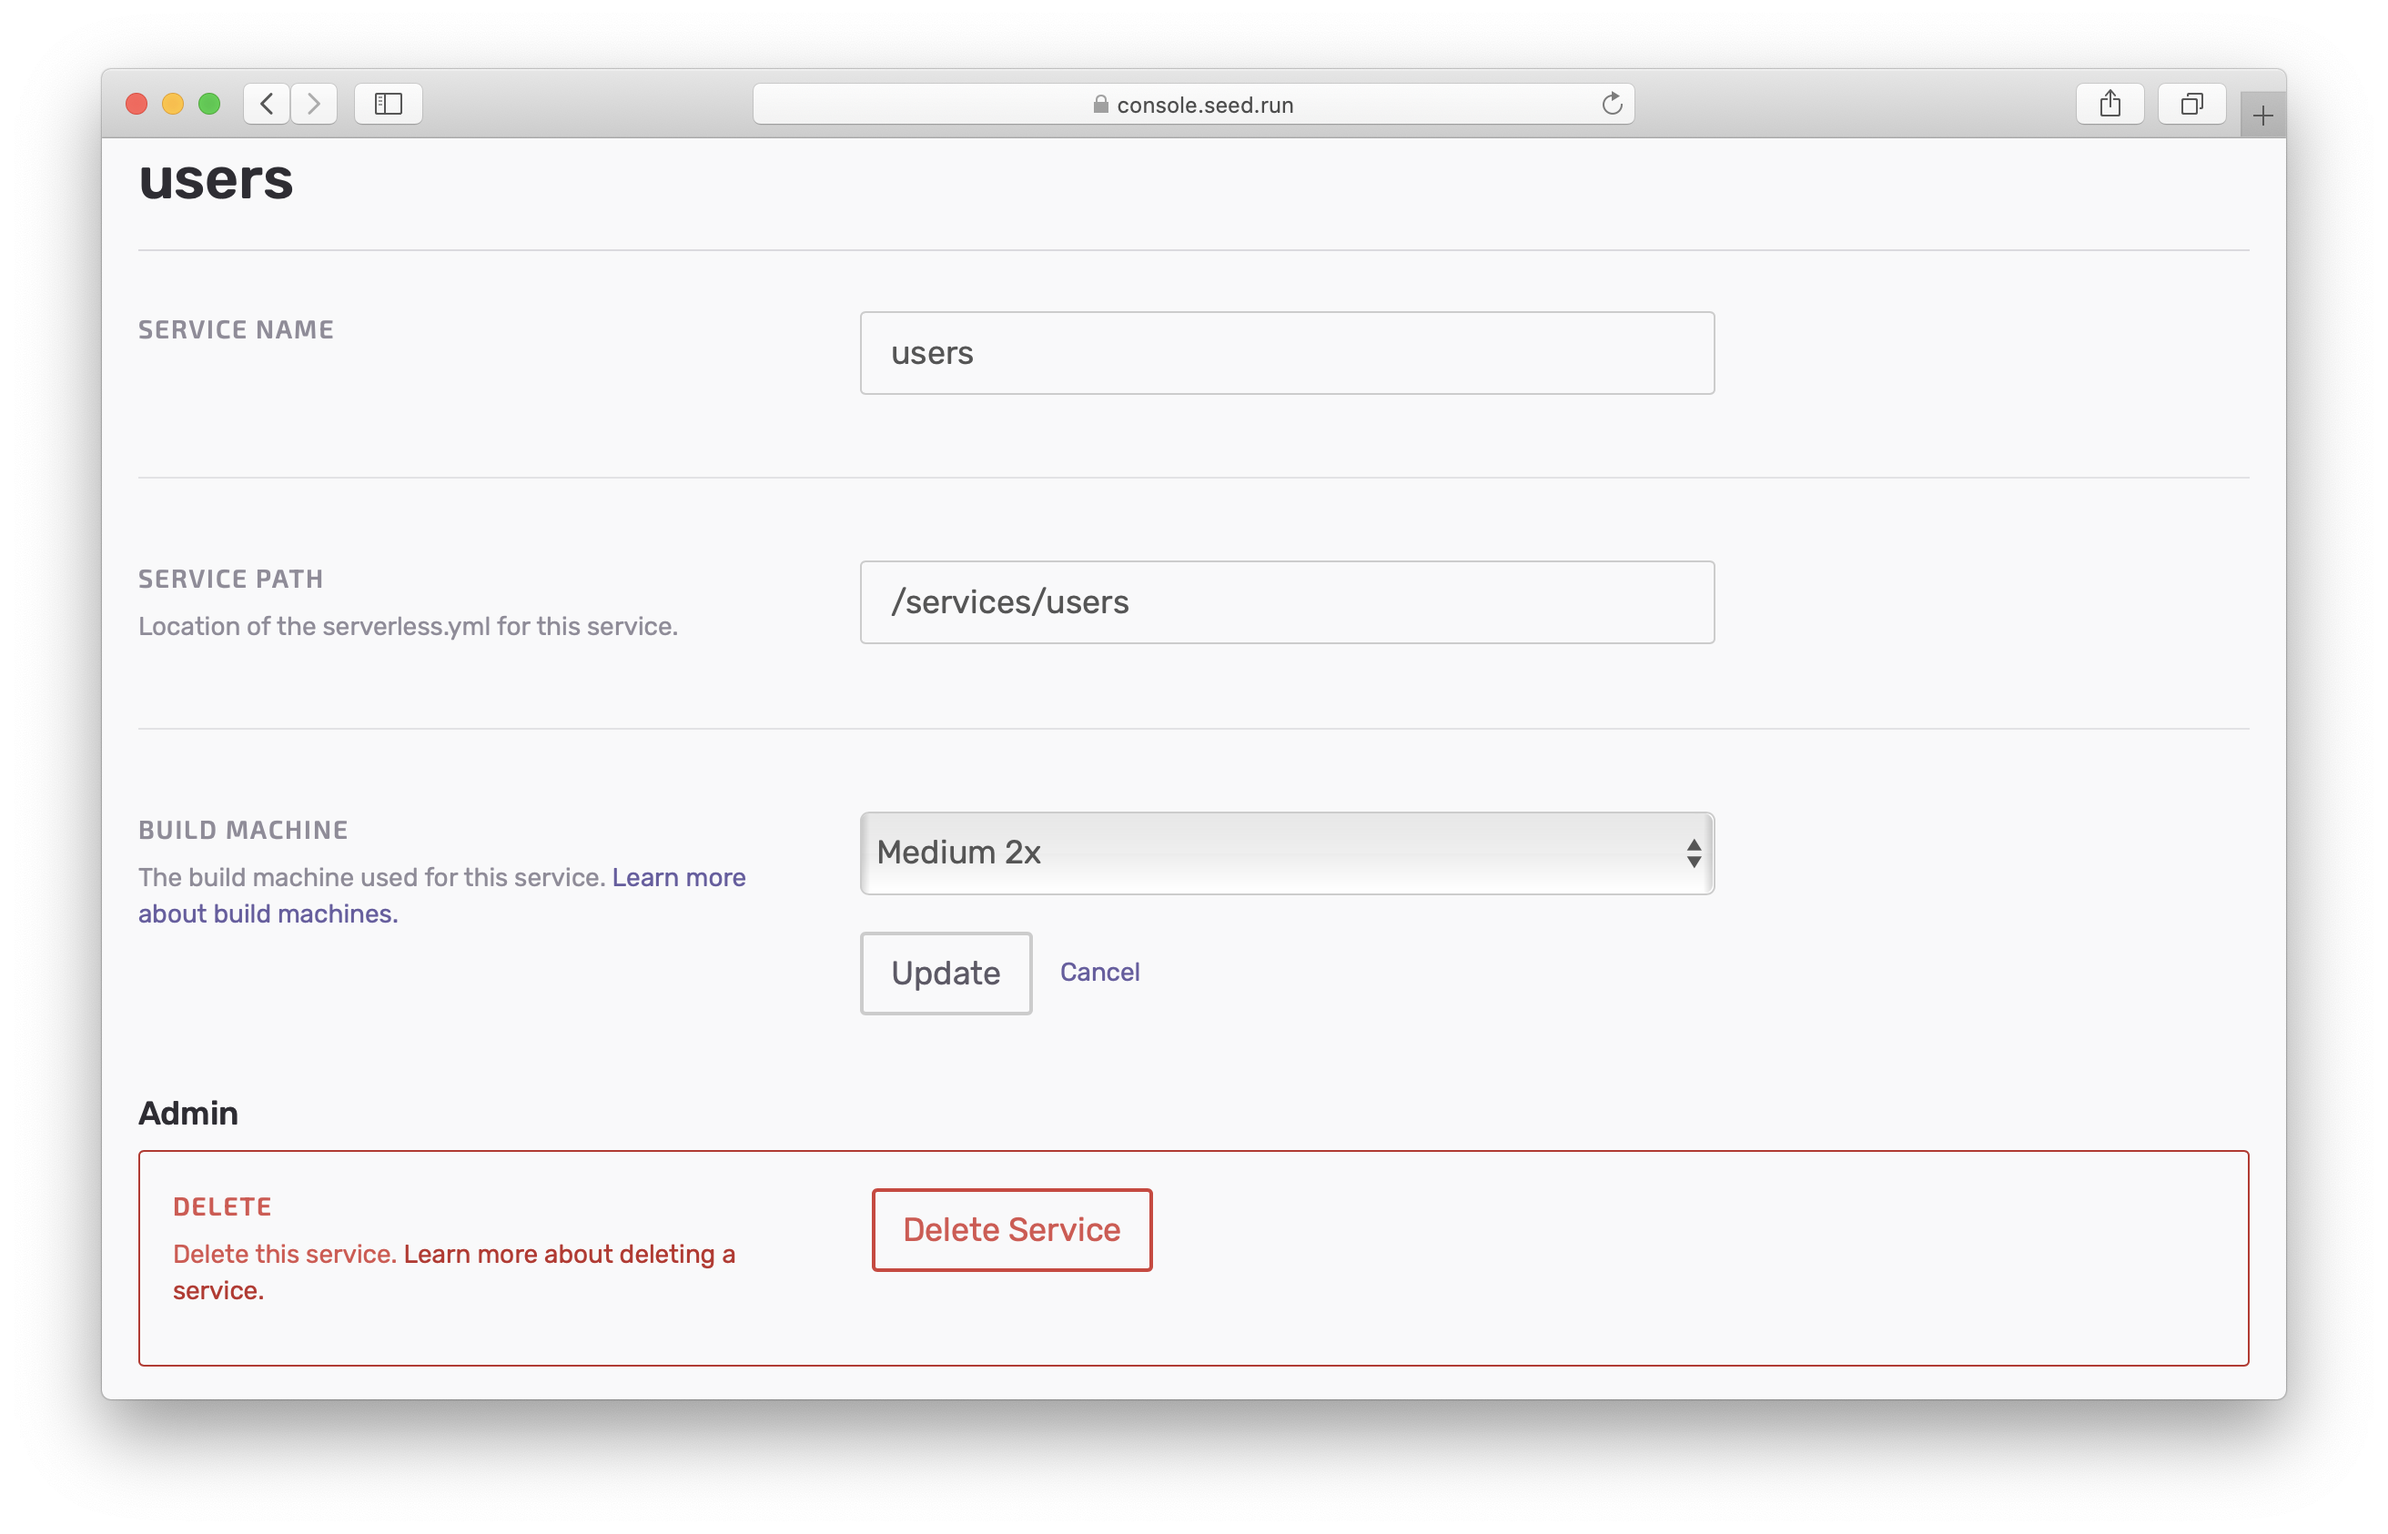
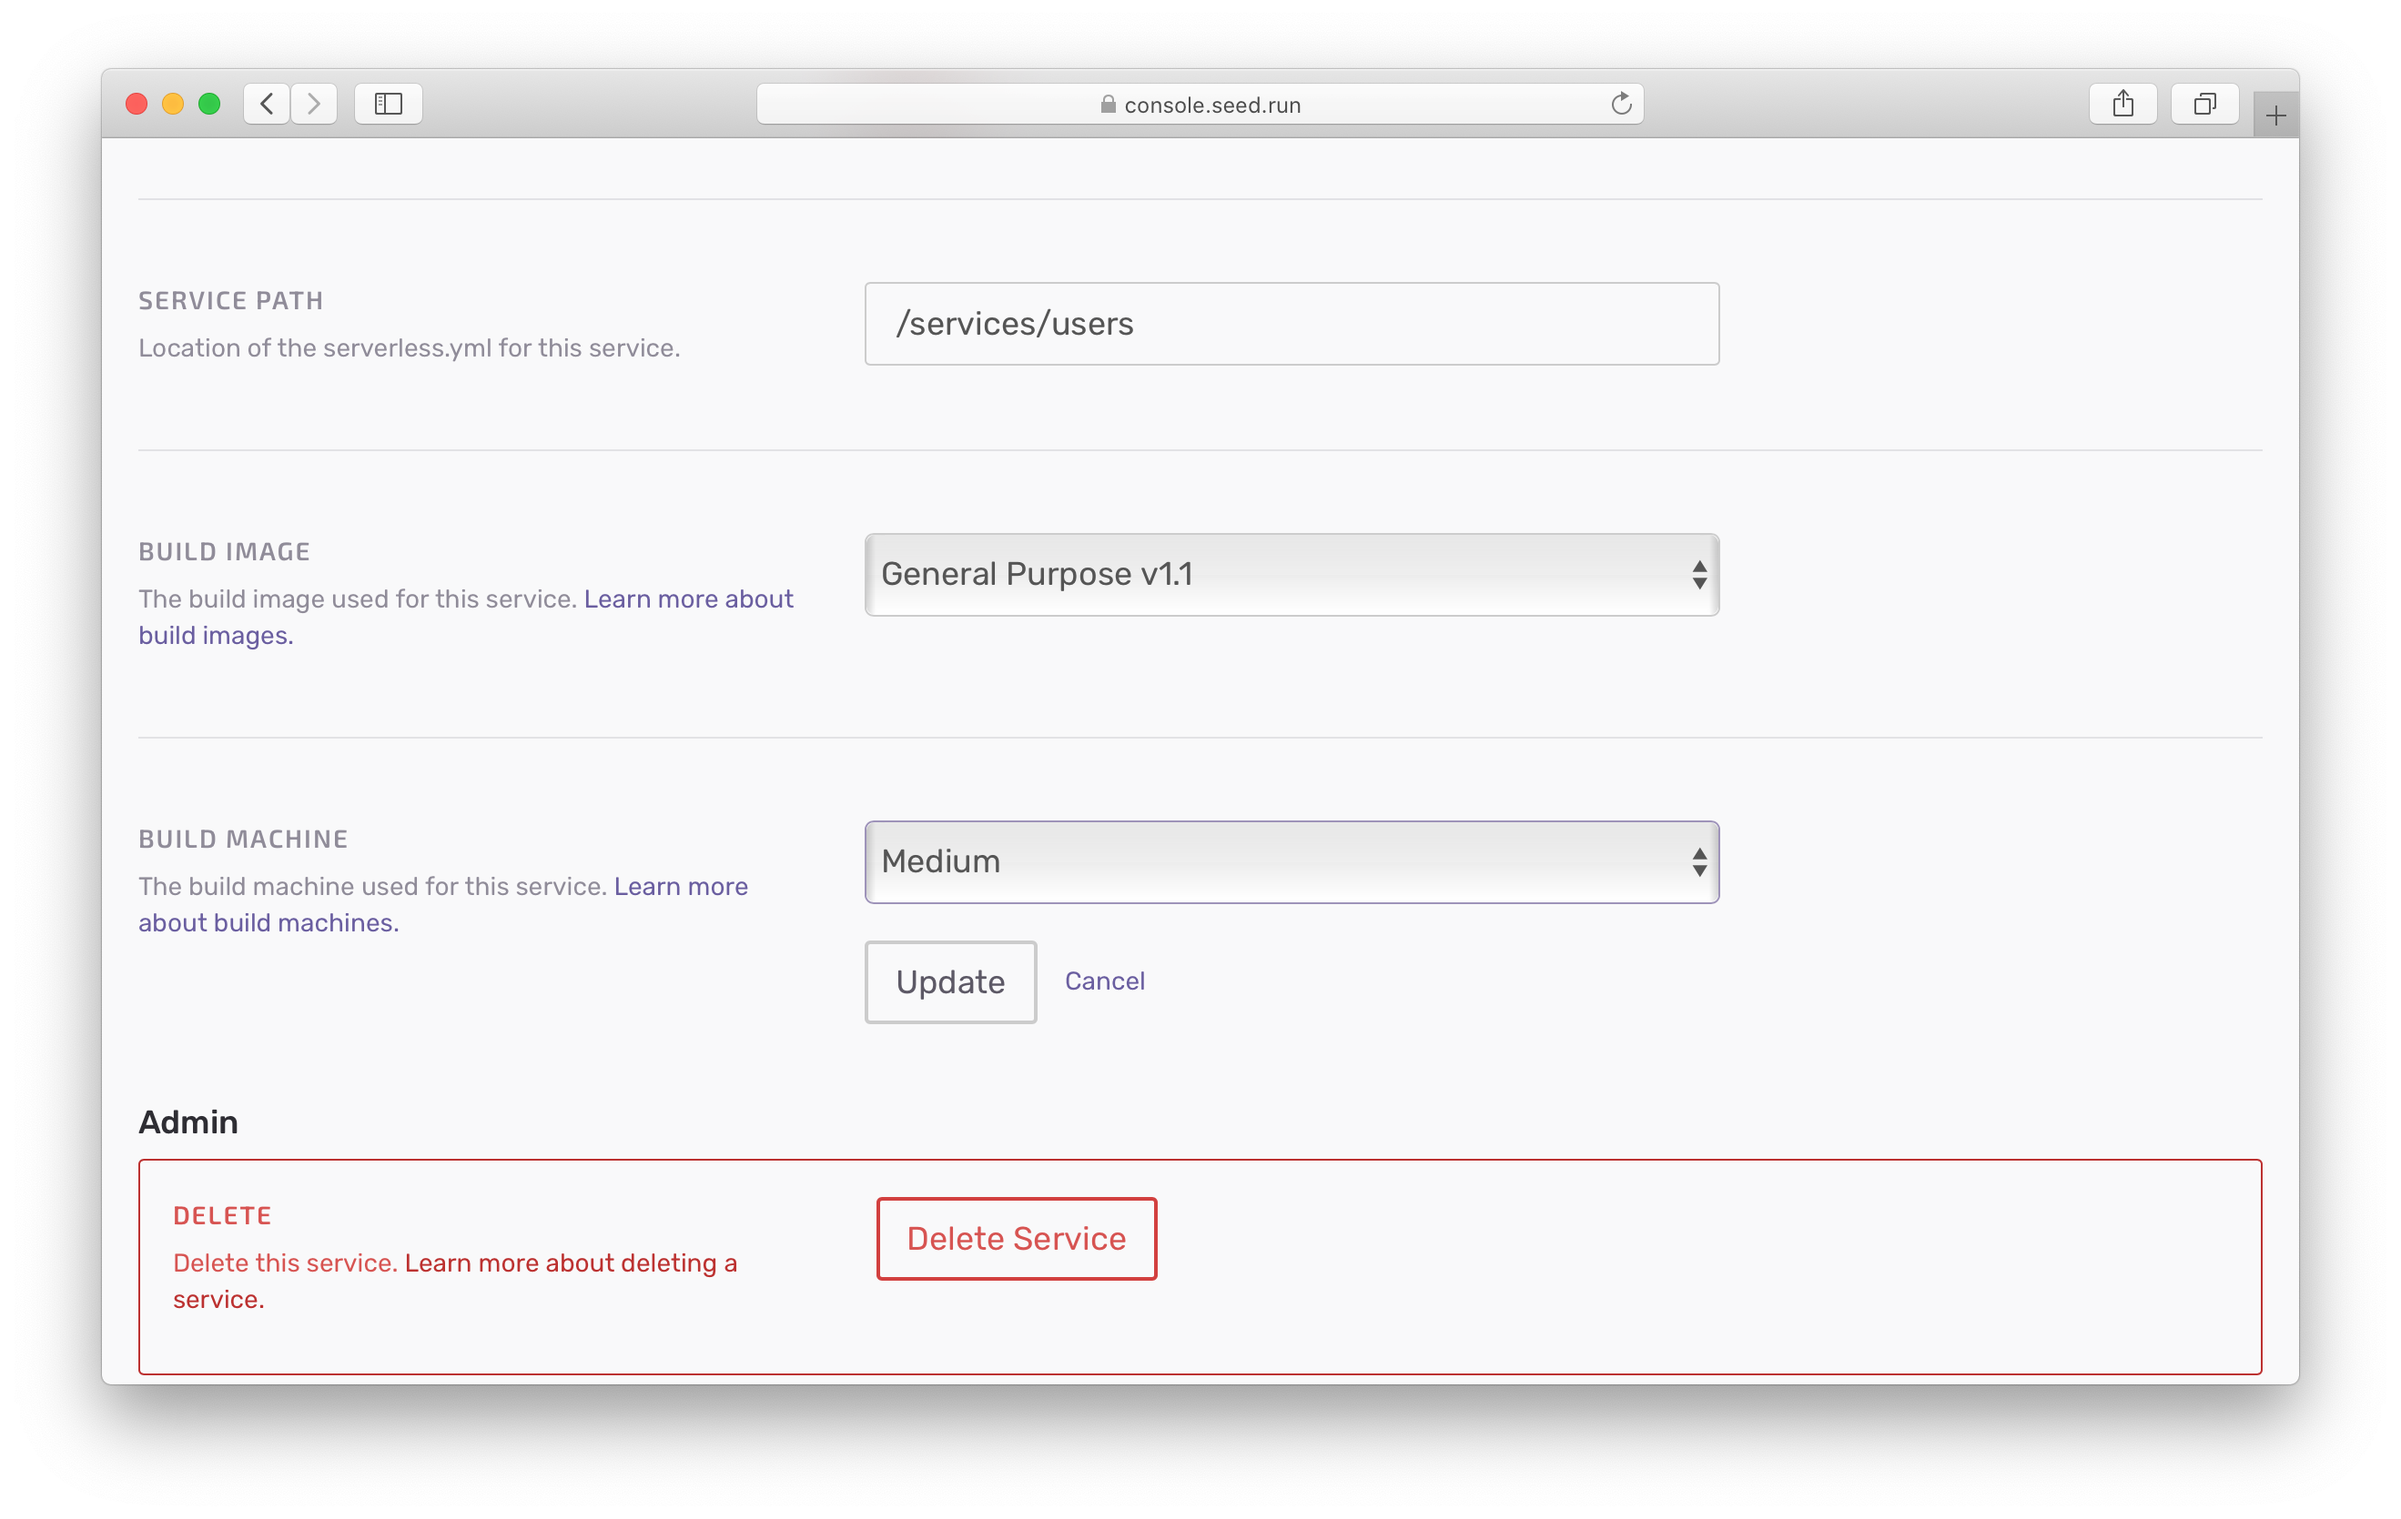
Updating docs and adding post on SG machines

diff --git a/_posts/2020-11-10-second-generation-build-machines-are-in-beta.md b/_posts/2020-11-10-second-generation-build-machines-are-in-beta.md
@@ -1,0 +1,34 @@
+---
+layout: post
+title: Second Generation build machines are in beta
+categories: news
+image: assets/social-cards/second-generation-build-machines.png
+author: frank
+tweet: 
+---
+
+The builds in Seed are about to get a lot faster. Today we are rolling out a new generation of build machines in beta. These Second Generation (SG) machines start up nearly 6x faster than our current ones.
+
+![Second Generation build machine in build log](/assets/blog/second-generation-build-machines-are-in-beta/second-generation-build-machine-in-build-log.png)
+
+### Background
+
+Over the past few months, we've been hard at work at creating a completely new build infrastructure to drastically speed up your builds. A big part of this initiative is [the new build infrastructure that we are using to build CDK apps]({% link _posts/2020-09-23-fixing-cdk-deployments.md %}) on Seed.
+
+We are now in the process of bringing those changes to your Serverless Framework projects. A big first step in that direction is a beta release of our new Second Generation build machines.
+
+### Second Generation Build Machines
+
+Typically, a build machine takes a little bit of time to provision the resources necessary to start up a new build. This can currently vary from 20s - 40s. While you are not charged for this provisioning time, it can slow down your builds. Especially, if you have [multiple deploy phases]({% link _docs/configuring-deploy-phases.md %}).
+
+The new Second Generation machines reduce this down to 3s - 5s. Making a drastic difference in your overall build times.
+
+During the beta, you can head over to your service settings and select the new Second Generation or _SG_ machines. You can [read more about this over on our docs]({% link _docs/build-machine-types.md %}#second-generation-machines).
+
+![Select a Second Generation machine in the service settings](/assets/blog/second-generation-build-machines-are-in-beta/select-a-second-generation-machine-in-the-service-settings.png)
+
+Note that, as we are scaling up capacity for these new machines, Seed might end up falling back to an equivalent First Generation machine for some builds.
+
+The new Second Generation machines will also allow us to completely optimize the build process in the future. Our goal is to ensure that your Serverless apps are deployed as fast as possible on Seed!
+
+So give the new machines a try and let us know what you think!

diff --git a/_docs/build-machine-types.md b/_docs/build-machine-types.md
@@ -33,3 +33,29 @@ To look at the amount of build minutes used, head over to the build logs.
 ![Build minutes usage in build logs](/assets/docs/build-machine-types/build-minutes-usage-in-build-logs.png)
 
 You'll notice how long the build process took, and given the build machine used, the amount of build minutes it used.
+
+### Second Generation Machines
+
+Second Generation build machines are currently in beta and are designed to startup 6 times faster than the current set of build machines. Resulting in much faster build times.
+
+The specs for the Second Generation machines are identical to the current generation.
+
+| Build Machine | Memory | vCPU | Build Minutes Used |
+|---------------|:------:|:----:|:------------------:|
+| Standard SG   | 3GB    | 2    | 1x                 |
+| Medium SG     | 7GB    | 4    | 2x                 |
+| Large SG      | 15GB   | 8    | 4x                 |
+
+Note the postfix **_SG_** that's used to denote the difference between the two types.
+
+During the beta you can select one of the Second Generation machines from a service's settings. Just as mentioned above.
+
+And you can find which machine was used for a given build at the top of your build logs.
+
+![Build machine info in build log](/assets/docs/build-machine-types/build-machine-info-in-build-log.png)
+
+During the beta we'll be scaling up capacity for the Second Generation machines. So you might occasionally find Seed falling back to using the First Generation version of the build machine you selected.
+
+![Build machine fallback info in build log](/assets/docs/build-machine-types/build-machine-fallback-info-in-build-log.png)
+
+Above you'll notice that Seed is falling back to the First Generation machine.
